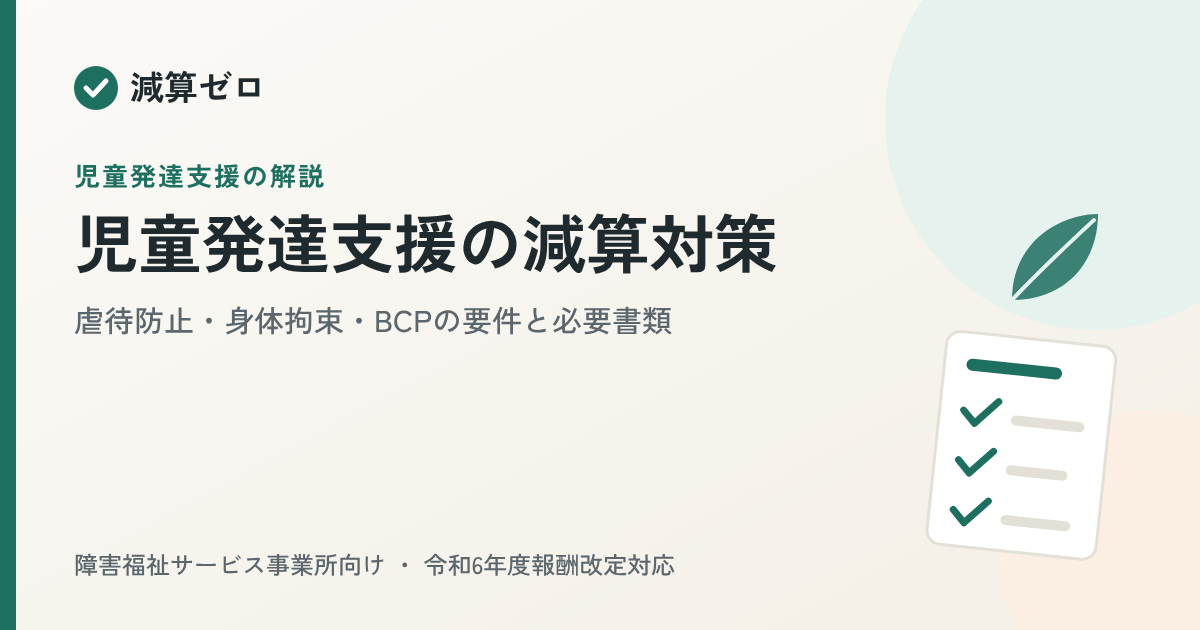
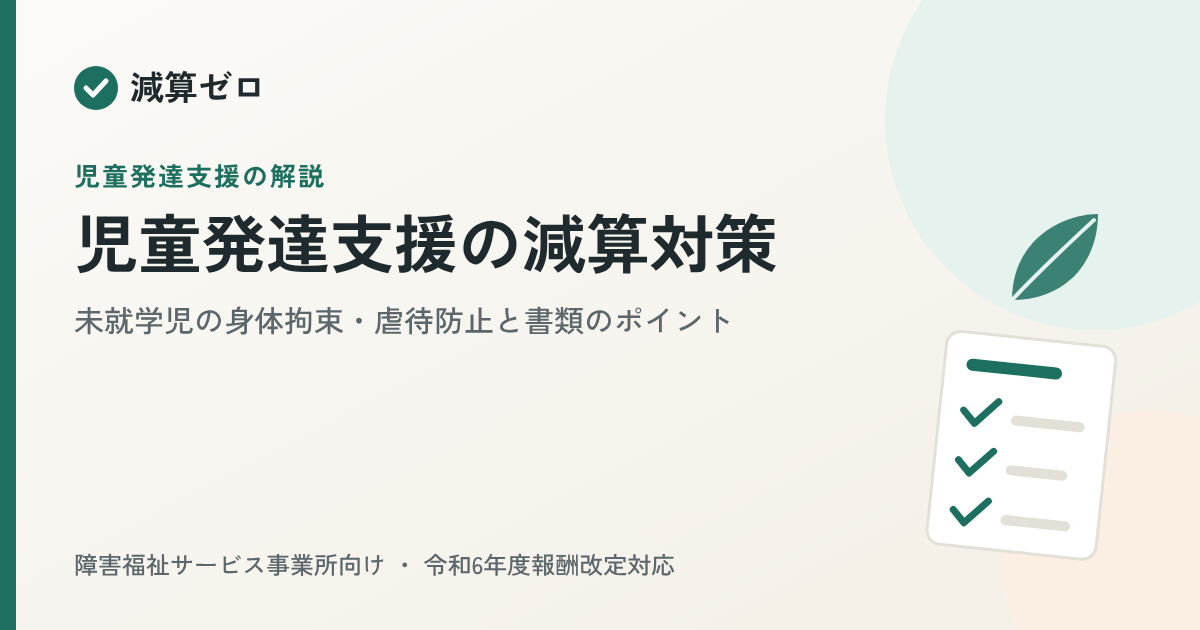
P0 減算ゼロ: 児童発達支援の解説を児発固有の内容に書き直し（放デイとの類似度 0.75→0.25）
- 未就学児の生活場面（食事・午睡・排泄・着替え）、医療的ケア児、センターと事業所、保育所等との併行利用・保育所等訪問支援、家族支援、送迎の有無
- 出典に児童発達支援ガイドライン（令和6年7月）と Q&A VOL.1 問14 を追加（制度チェック済み）

Claude-Session: https://claude.ai/code/session_019QzkHuvo1SuxAPiKCHkDhu

Changed region(s): [[0.3083, 0.4825, 0.6167, 0.5429], [0.0617, 0.4825, 0.185, 0.5429]]

diff --git a/lib/guide-pages/jidou-hattatsu.ts b/lib/guide-pages/jidou-hattatsu.ts
@@ -3,91 +3,93 @@ import type { Guide } from "./types";
 export const guide: Guide = {
   slug: "jidou-hattatsu-gensan",
   serviceType: "児童発達支援",
-  title: "児童発達支援の減算対策｜虐待防止・身体拘束・BCPの要件と必要書類",
+  title: "児童発達支援の減算対策｜未就学児の身体拘束・虐待防止と書類のポイント",
   description:
-    "児童発達支援に適用される虐待防止措置未実施減算（1%）、身体拘束廃止未実施減算（1%）、業務継続計画未策定減算（1%）について、未就学児の支援に即した要件の満たし方、そろえる書類、運営指導での指摘例をこども家庭庁の通知をもとに解説します。",
+    "児童発達支援（センター・事業所）の虐待防止措置未実施減算・身体拘束廃止未実施減算・業務継続計画未策定減算（各1%）について、食事・午睡・トイレの場面、医療的ケア児、保育所との併行利用、家族支援など未就学児の支援に特有の注意点を児童発達支援ガイドラインをもとに解説します。",
   published: "2026-10-08",
-  updated: "2026-10-08",
+  updated: "2026-10-09",
   summary:
-    "児童発達支援（児童発達支援センターを含む）には、令和6年度報酬改定により、虐待防止措置未実施減算（所定単位数の1%）、身体拘束廃止未実施減算（1%）、業務継続計画未策定減算（1%）が適用されます。虐待防止は委員会・研修（各年1回以上）と担当者の設置、身体拘束は記録・委員会・指針・研修の4つ、BCPは感染症・災害の計画の策定と、計画に従った必要な措置が要件です。一つでも欠けると減算の対象になります（BCPの研修・訓練は運営基準上の義務ですが、減算の算定要件ではありません）。",
+    "児童発達支援（児童発達支援センターを含む）には、虐待防止措置未実施減算・身体拘束廃止未実施減算・業務継続計画未策定減算が各1%適用されます。未就学児の支援では、食事・午睡・排泄などの介助場面や、医療的ケア児のチューブ抜去防止の手袋などが身体拘束等にあたらないかの整理が要点です。やむを得ず身体拘束が想定される場合は、こども家庭庁の児童発達支援ガイドラインにより、児童発達支援計画への記載と保護者への事前説明も必要です。",
   body: `## このサービスに適用される減算
 
-児童発達支援は児童福祉法に基づく障害児通所支援で、報酬はこども家庭庁の告示・通知で定められています。令和6年度報酬改定後、次の3つの減算が適用されます。
+児童発達支援は、主に就学前のこどもを対象とする児童福祉法上の障害児通所支援です。令和6年4月からは「福祉型」と「医療型」が一元化され、児童発達支援センターも児童発達支援事業所も、次の3つの減算の対象です。
 
-| 減算名 | 減算率 | 根拠 |
+| 減算名 | 減算率 | 減算にならないための要件 |
 |---|---|---|
-| 虐待防止措置未実施減算 | 所定単位数の1% | 令和6年度改定で新設。障害児通所支援の留意事項通知 |
-| 身体拘束廃止未実施減算 | 所定単位数の1%（通所系の区分） | 令和6年度改定で「1日5単位」から見直し |
-| 業務継続計画未策定減算 | 所定単位数の1% | 令和6年度改定で新設。経過措置は令和7年3月31日で終了 |
+| 虐待防止措置未実施減算 | 所定単位数の1% | 委員会（年1回以上）と結果の周知、研修（年1回以上）、担当者の設置 |
+| 身体拘束廃止未実施減算 | 所定単位数の1% | 記録、委員会（年1回以上）、指針、研修（年1回以上） |
+| 業務継続計画未策定減算 | 所定単位数の1% | 感染症・災害の業務継続計画の策定と、計画に従った必要な措置 |
 
-虐待防止と身体拘束の減算は、基準を満たしていない事実が生じたときに改善計画を指定権者へ提出し、3か月後に改善状況を報告する仕組みです。減算は**基準を満たしていない状況が確認された月の翌月から改善が認められた月まで**、利用者全員について行われます（留意事項通知は「事実が生じた」を「運営基準を満たしていない状況が確認されたこと」と定めており、BCP・情報公表の減算のように基準を満たさなくなった時点までさかのぼる扱いではありません）。
+虐待防止と身体拘束の減算は、**基準を満たしていない状況が確認された月の翌月から改善が認められた月まで**、利用者全員について行われ、確認より前にさかのぼる扱いではありません。業務継続計画未策定減算は、基準を満たさない事実が生じた月の翌月から状況が解消された月まで適用されます。BCPの周知・研修・訓練・見直しは運営基準上の義務ですが、減算の算定要件そのものではありません（令和6年度報酬改定Q&A VOL.1 問14）。
 
-このほか、児童発達支援には**支援プログラム未公表減算**（所定単位数の85%で算定）や**情報公表未報告減算**（所定単位数の5%）もあります。
+要件ごとの詳しい作り方は、委員会の議事録、身体拘束の指針、研修資料の各解説にまとめています。このページでは、未就学児を支援する児童発達支援ならではの注意点を中心に説明します。なお、研修は年1回以上に加え、**新規採用時には必ず実施することが重要**とされています（指定基準の解釈通知）。年度途中の採用が多い事業所は、採用のたびに実施できる形にしておきましょう。
 
 ## 減算にならないための要件
 
-### 虐待防止（3要件）
+### 食事・午睡・排泄など生活場面の介助
 
-1. **虐待防止委員会を年1回以上開催し、結果を従業者に周知する**
-2. **虐待防止のための研修を年1回以上実施する**（新規採用時には必ず実施することが重要とされています（指定基準の解釈通知））
-3. **虐待防止の担当者を置く**
+児童発達支援ガイドラインは、睡眠・食事・排泄などの基本的な生活習慣の形成を本人支援の柱の一つにしています。介助の機会が多いぶん、支援のつもりの行為が不適切なケアや身体拘束等になっていないか、委員会で場面ごとに整理しておくことが大切です。手引きでは、たとえば次の行為が虐待の例として挙げられています。
 
-委員会は法人単位での設置や、身体拘束等適正化委員会（留意事項通知上の名称は「身体拘束適正化検討委員会」）との一体的な運営ができます。保育所や他の通所支援を運営している法人なら、法人全体の委員会で事業所ごとの議題を扱う方法もあります。
+- 食事の際に、職員の都合で、本人が拒否しているのに口に入れて食べさせる、飲み物を飲ませる
+- 介助がしやすいように、職員の都合でベッド等へ抑えつける
+- 職員が自分の身体でこどもを押さえつけて行動を制限する、自分の意思で開けられない部屋に隔離する
 
-### 身体拘束の適正化（4要件）
+児童発達支援で迷いやすい場面の例としては、立ち歩きを防ぐための椅子のベルトや机での固定、午睡中に体を押さえて寝かせること、トイレトレーニングで便座に座らせ続けること、着替えを嫌がるこどもの手足を押さえることなどがあります（いずれも例です）。必要な介助と行動の制限の線引きを、こどもごとに決めて職員間で共有しましょう。
 
-1. やむを得ず身体拘束等を行った場合の**記録**（態様・時間・心身の状況・緊急やむを得ない理由）
-2. **身体拘束等適正化委員会**の年1回以上の開催と結果の周知
-3. **身体拘束等の適正化のための指針**の整備
-4. **身体拘束等の適正化のための研修**の年1回以上の実施
+### 身体拘束が想定されるこどもへの対応
 
-「緊急やむを得ない理由」は、**切迫性・非代替性・一時性**の3つすべてを満たし、組織として確認した手続きも記録します。未就学児の支援では、次のような場面の扱いを委員会で整理しておくと、職員の判断がそろいます（いずれも例です）。
+ガイドラインでは、身体拘束を行わざるを得ない事態が想定される場合、**いかなる場合にどのような形で行うかを設置者・管理者が組織的に決定**し、**児童発達支援管理責任者が、身体拘束が必要となる状況や態様・時間を児童発達支援計画に記載**すること、その際こどもや保護者に事前に十分説明し了解を得ることを求めています。保護者の希望や同意だけで、切迫性・非代替性・一時性の3要件を満たしたことにはなりません。
 
-- 食事や活動の時間に、立ち歩かないよう椅子のベルトやテーブルで動けなくする
-- 自傷を防ぐためにミトンやヘッドギアを使う、手を押さえ続ける
-- 午睡時に体を押さえて寝かせる、部屋から出られないよう施錠する
-- 保護者から「家ではこうしている」と行動制限を頼まれる（保護者の希望だけでは3要件を満たしたことにはなりません）
+### 医療的ケア児の支援
 
-### 業務継続計画（BCP）
+点滴や経管栄養のチューブを抜かないように、または皮膚をかきむしらないようにミトン型の手袋を付けることは、手引きで身体拘束の具体例として挙げられています。医療的ケア児を受け入れている事業所では、こうした対応が必要になる状況と代替策を主治医・看護職員と検討し、記録に残しておくことが重要です。
 
-- **感染症**と**自然災害**の業務継続計画を策定する
-- 従業者に周知し、**研修と訓練を年1回以上**実施する
-- 定期的に見直す
+BCPでは、人工呼吸器や吸引器の電源確保、バッテリー切れの防止、酸素ボンベ等の安全管理を盛り込みます。ガイドラインは、医療的ケア児の災害時対応について「保育所における医療的ケア児の災害時対応ガイドライン」も参考にするよう示しています。障害のあるこどもの個別避難計画は市町村の努力義務とされており、相談支援事業所や主治医との意思疎通も求められています。
 
-※ 業務継続計画未策定減算の算定要件は、感染症・災害の業務継続計画を**策定**し、**計画に従って必要な措置を講じている**ことです。周知・研修・訓練・定期的な見直しは運営基準上の義務ですが、減算の算定要件そのものではありません（令和6年度報酬改定Q&A VOL.1 問14）。減算とは別に運営指導で指摘される対象なので、実施記録は残しておきましょう。
+### 児童発達支援センターと事業所の違い
 
-未就学児は自力での避難が難しいため、避難時の職員配置、おんぶ・抱っこでの移動、保護者への引き渡し、医療的ケア児の物品・電源の確保などを計画に入れておくことが大切です。
+児童発達支援センターは、令和6年4月施行の改正児童福祉法で地域の障害児支援の中核的役割を担う機関と位置づけられ、ガイドラインでは、地域の障害児通所支援事業所へのスーパーバイズ・コンサルテーションや、保育所等訪問支援などを通じたインクルージョンの推進といった機能が示されています。減算の要件はセンターも事業所も同じですが、センターは自らの体制を整えるだけでなく、地域の事業所から虐待防止や身体拘束の相談を受ける立場にもなりえます。センターで作った指針や研修の内容を、事例検討会などで地域の事業所と共有するのも一つの方法です（例）。
+
+ガイドラインは、虐待防止委員会に苦情解決の第三者委員などの外部委員を入れることや、児童発達支援管理責任者などを虐待防止マネージャーとして配置することも示しています。
+
+### 保育所・幼稚園との併行利用と保育所等訪問支援
+
+保育所や幼稚園と併行利用しているこどもについて、ガイドラインは併行利用先と支援内容を共有して連携することを求めています。パニック時の対応や、身体拘束が想定される場面の方針が事業所と保育所で食い違わないよう、共有の範囲と方法を保護者の同意のもとで決めておきましょう。
+
+保育所等訪問支援をあわせて行っている場合、保育所等訪問支援も虐待防止・身体拘束・BCPの3つの減算の対象です。委員会や研修は一体で行えますが、記録には保育所等訪問支援の場面も扱ったことがわかるようにしておくと安心です。
+
+### 家族支援と虐待の早期発見
+
+ガイドラインは、家族支援（アタッチメントの形成、子育ての相談援助、ペアレント・トレーニング、きょうだい支援など）を児童発達支援の柱の一つとし、乳幼児期は保護者が孤立感を感じやすい時期だとしています。職員は保護者による虐待を発見しやすい立場にあり、不自然な傷や身なりの不衛生などに気づいたら、事業所内で速やかに情報共有します。
+
+- 保護者による虐待が疑われる場合：**児童虐待防止法第6条に基づき、市町村、都道府県の設置する福祉事務所または児童相談所に通告**します（障害者虐待防止法の養護者虐待の通報は18歳未満を除いているため）。
+- 職員による虐待が疑われる場合：**障害者虐待防止法の「障害者福祉施設従事者等による虐待」**として、通所給付決定をした市町村の窓口に通報します。事業所内だけで事実確認を進めて収束させてはいけないとされています。
+
+### 送迎がある場合・ない場合
+
+送迎を行う事業所は、乗降時の点呼などによる所在確認と、通所用の自動車へのブザーなど見落とし防止装置の装備・使用が運営基準で求められています。ガイドラインは、職員による虐待（特に性的虐待）は密室化した場所で起こりやすいとして、**送迎の車内を含め**密室を作らない工夫を求めています。送迎がない（保護者送迎の）事業所でも、引き渡しの手順や、災害時に保護者が迎えに来られない場合の対応をBCPに書いておく必要があります。
 
 ## 必要な書類
 
-| 要件 | 書類 | 作るときのポイント |
+| 場面 | 書類 | 作るときのポイント |
 |---|---|---|
-| 虐待防止委員会 | 議事録、周知の記録 | 開催日・出席者・検討内容・決定事項と、職員への周知方法・日付を残す |
-| 虐待防止研修 | 研修計画、資料、参加者名簿 | 非常勤職員や欠席者へのフォローも記録する |
-| 担当者の設置 | 運営規程、体制表 | 運営規程に虐待防止の措置を記載する |
-| 身体拘束の記録 | 身体拘束等の記録様式 | 3要件の確認者・日時、保護者への説明と同意の内容を書く |
-| 身体拘束等適正化委員会 | 議事録 | 一体開催の場合も、身体拘束の議題を明記する |
-| 指針 | 身体拘束等の適正化のための指針 | 保護者が閲覧できるようにする方針も入れる |
-| 身体拘束研修 | 研修資料、参加者名簿 | 事業所内研修でもよく、虐待防止研修と一体で実施できる |
-| BCP | 感染症BCP、自然災害BCP、研修・訓練の記録 | 子どもの引き渡し、医療的ケア児への対応を具体的に書く |
+| 生活場面の介助 | 介助方法の取り決め、連絡ノート | 食事・午睡・排泄の介助方法を保護者と共有し、無理強いしない方針を明記する |
+| 身体拘束が想定されるこども | 児童発達支援計画、身体拘束等の記録 | 必要となる状況・態様・時間を計画に書き、保護者への事前説明と了解の記録を残す |
+| 医療的ケア児 | 主治医の指示書、ケア手順、BCPの個別対応表 | ミトン等の使用を検討した経過と代替策を記録する。電源・物品の確保方法を書く |
+| 併行利用・保育所等訪問支援 | 情報共有の同意書、連携記録 | 共有する範囲と方法を決め、併行利用先との対応方針のすり合わせを記録する |
+| 委員会・研修 | 議事録、研修記録（新規採用時を含む） | 外部委員の参加や、地域の事業所と共有した内容があれば記録する |
+| BCP | 感染症BCP、自然災害BCP | 引き渡し方法、医療的ケア児の対応、個別避難計画との関係を書く |
 
 ## 運営指導でよくある指摘
 
-自治体の集団指導資料で示されている共通の指摘事項に、児童発達支援で起こりやすい場面の例を加えて整理しました。
+自治体の集団指導資料で示されている共通の指摘事項（記録がない、運営規程と実態が違うなど）に、児童発達支援で起こりやすい場面の例を加えて整理しました。
 
-1. **委員会の議事録や周知の記録がなく、開催を証明できない**
-2. **研修資料や参加者名簿が残っていない**
-3. **身体拘束をしていないので指針を作っていない**（身体拘束がなくても指針は必要です）
-4. **自傷防止のための用具や椅子のベルトを日常的に使っているが、身体拘束等として検討・記録していない**
-5. **保護者の依頼で行動制限をしているが、3要件の確認や組織としての手続きがない**
-6. **運営規程の虐待防止の記載が実態と違う、変更を届け出ていない**
-7. **BCPに子どもの引き渡しや医療的ケアの内容がなく、事業所の実態に合っていない**
-
-あわせて、安全計画の策定や、送迎車の乗降時の所在確認、通所用の自動車へのブザーなどの見落とし防止装置の装備と使用など、こども家庭庁の基準で求められる安全確保の取組も確認されます。
-
-## 虐待に気づいたときの通告・通報先
-
-家庭での保護者による虐待が疑われる場合は、**児童虐待防止法第6条に基づき、市町村、都道府県の設置する福祉事務所または児童相談所に通告**します（障害者虐待防止法の養護者虐待の通報は18歳未満を除いているため）。事業所の職員による利用児童への虐待は、**障害者虐待防止法の「障害者福祉施設従事者等による虐待」**として市町村への通報の対象です（障害児通所支援事業は同法の対象事業に含まれます）。どちらの場合も連絡先と手順を委員会で確認し、職員に周知しておきましょう。
+1. **食事や午睡の介助で抑えつけや無理強いがあるのに、委員会で取り上げていない**
+2. **身体拘束が想定されるこどもについて、児童発達支援計画に記載がなく、保護者への事前説明の記録もない**
+3. **医療的ケア児にミトン型の手袋を使っているが、身体拘束等として検討・記録していない**
+4. **年度途中に採用した職員に、虐待防止や身体拘束の研修を実施していない**
+5. **送迎車内で職員とこどもが1対1になる時間が長く、密室化への対策がない**
+6. **BCPに保護者への引き渡しや医療的ケア児の電源確保が書かれていない**
 
 ## 準備の進め方
 
@@ -95,35 +97,39 @@ export const guide: Guide = {
 
 | 時期 | やること |
 |---|---|
-| 4月 | 担当者の確認、年間計画の作成、新任職員研修 |
-| 6月 | 虐待防止・身体拘束等適正化委員会（一体開催）。不適切な対応になりかけた事例を検討 |
-| 9月 | BCPの訓練（引き渡し訓練や避難訓練とあわせて実施） |
-| 11月 | 虐待防止・身体拘束適正化研修（全職員） |
-| 2月 | 委員会で振り返り、指針・BCPの見直し |
+| 4月 | 新規利用・新規採用が集中する時期。新任職員研修、こどもごとの介助方法の確認 |
+| 6月 | 虐待防止・身体拘束等適正化委員会（一体開催）。食事・午睡・排泄場面の事例を検討 |
+| 9月 | BCPの訓練（引き渡し訓練、医療的ケア児の電源確保を含む） |
+| 11月 | 虐待防止・身体拘束適正化研修。併行利用先や保育所等訪問支援の場面も扱う |
+| 2月 | 委員会で振り返り。就学・移行に向けて、指針・BCP・引き継ぎ内容を見直す |
 
-委員会は虐待防止と身体拘束で一体開催できるため、年2回程度にまとめると負担を抑えられます。書類の抜けは無料の減算リスク診断で確認でき、書類サンプルも参考にできます。
+書類の抜けは無料の減算リスク診断で確認でき、書類サンプルも参考にできます。
 
 > 取扱いの細部は指定権者（都道府県・市町村）によって異なる場合があります。最新の告示・通知を必ず確認してください。`,
   faq: [
     {
-      q: "児童発達支援の身体拘束廃止未実施減算は何%ですか？",
-      a: "令和6年度報酬改定後は、所定単位数の1%です。障害児入所施設などの施設・居住系は10%ですが、児童発達支援は通所系の区分で1%です。",
+      q: "児童発達支援センターと児童発達支援事業所で減算の扱いは違いますか？",
+      a: "減算の種類と率（各1%）は同じです。センターは地域の障害児支援の中核的役割を担う機関とされているため、自らの体制に加えて、地域の事業所への助言なども期待されています。",
     },
     {
-      q: "児童発達支援センターも同じ減算が適用されますか？",
-      a: "はい。児童発達支援センターも児童発達支援として、虐待防止措置未実施減算・身体拘束廃止未実施減算・業務継続計画未策定減算の対象です。",
+      q: "医療的ケア児のチューブ抜去を防ぐミトンは身体拘束にあたりますか？",
+      a: "チューブを抜かないようにミトン型の手袋を付けることは、手引きで身体拘束の具体例として挙げられています。やむを得ず行う場合は、切迫性・非代替性・一時性の3要件を組織として確認し、記録する必要があります。",
     },
     {
       q: "保護者の同意があれば身体拘束をしてもよいですか？",
-      a: "保護者の同意だけでは足りません。切迫性・非代替性・一時性の3要件すべてを満たすことを組織として確認し、その手続きと態様・時間・理由などを記録する必要があります。",
+      a: "同意だけでは足りません。児童発達支援ガイドラインでは、組織的な決定のうえで、身体拘束が必要となる状況・態様・時間を児童発達支援計画に記載し、こどもや保護者に事前に十分説明して了解を得ることが求められています。",
     },
     {
-      q: "研修は外部の研修でないといけませんか？",
-      a: "事業所内で行う研修で差し支えないとされています。虐待防止研修の中で身体拘束の適正化を扱うなど、一体的に実施することもできます。実施内容の記録は残しておきましょう。",
+      q: "保育所等訪問支援も同じ減算の対象ですか？",
+      a: "はい。保育所等訪問支援も、虐待防止措置未実施減算・身体拘束廃止未実施減算・業務継続計画未策定減算（各1%）の対象です。",
     },
   ],
-  related: ["gyakutai-iinkai-gijiroku", "gyakutai-kenshu-shiryou", "shintai-kousoku-shishin", "houkago-day-shintai-kousoku-rei", "bcp-gensan-jidou", "unei-shidou-shiteki-jidou"],
+  related: ["gyakutai-iinkai-gijiroku", "gyakutai-kenshu-shiryou", "shintai-kousoku-shishin", "houkago-day-shintai-kousoku-rei", "jidou-hyouka-kouhyou", "bcp-gensan-jidou", "unei-shidou-shiteki-jidou"],
   sources: [
+    {
+      label: "こども家庭庁「児童発達支援ガイドライン」（令和6年7月）",
+      url: "https://www.cfa.go.jp/assets/contents/node/basic_page/field_ref_resources/253aba4f-3ce0-4aa1-a777-3d42440f1ca2/6b53e02b/20240712_policies_shougaijishien_shisaku_hoshukaitei_117.pdf",
+    },
     {
       label: "こども家庭庁「令和6年度障害福祉サービス等報酬改定について」（障害児支援関係の告示・通知・Q&A掲載ページ）",
       url: "https://www.cfa.go.jp/policies/shougaijishien/shisaku/hoshukaitei",
@@ -139,6 +145,10 @@ export const guide: Guide = {
     {
       label: "厚生労働省「令和6年度障害福祉サービス等報酬改定の概要」（令和6年）",
       url: "https://www.mhlw.go.jp/content/001216035.pdf",
+    },
+    {
+      label: "厚生労働省「令和6年度障害福祉サービス等報酬改定等に関するQ&A VOL.1」（令和6年3月29日）問14",
+      url: "https://www.mhlw.go.jp/content/001260473.pdf",
     },
     {
       label: "こども家庭庁・厚生労働省「障害者福祉施設等における障害者虐待の防止と対応の手引き」（令和6年7月）",
